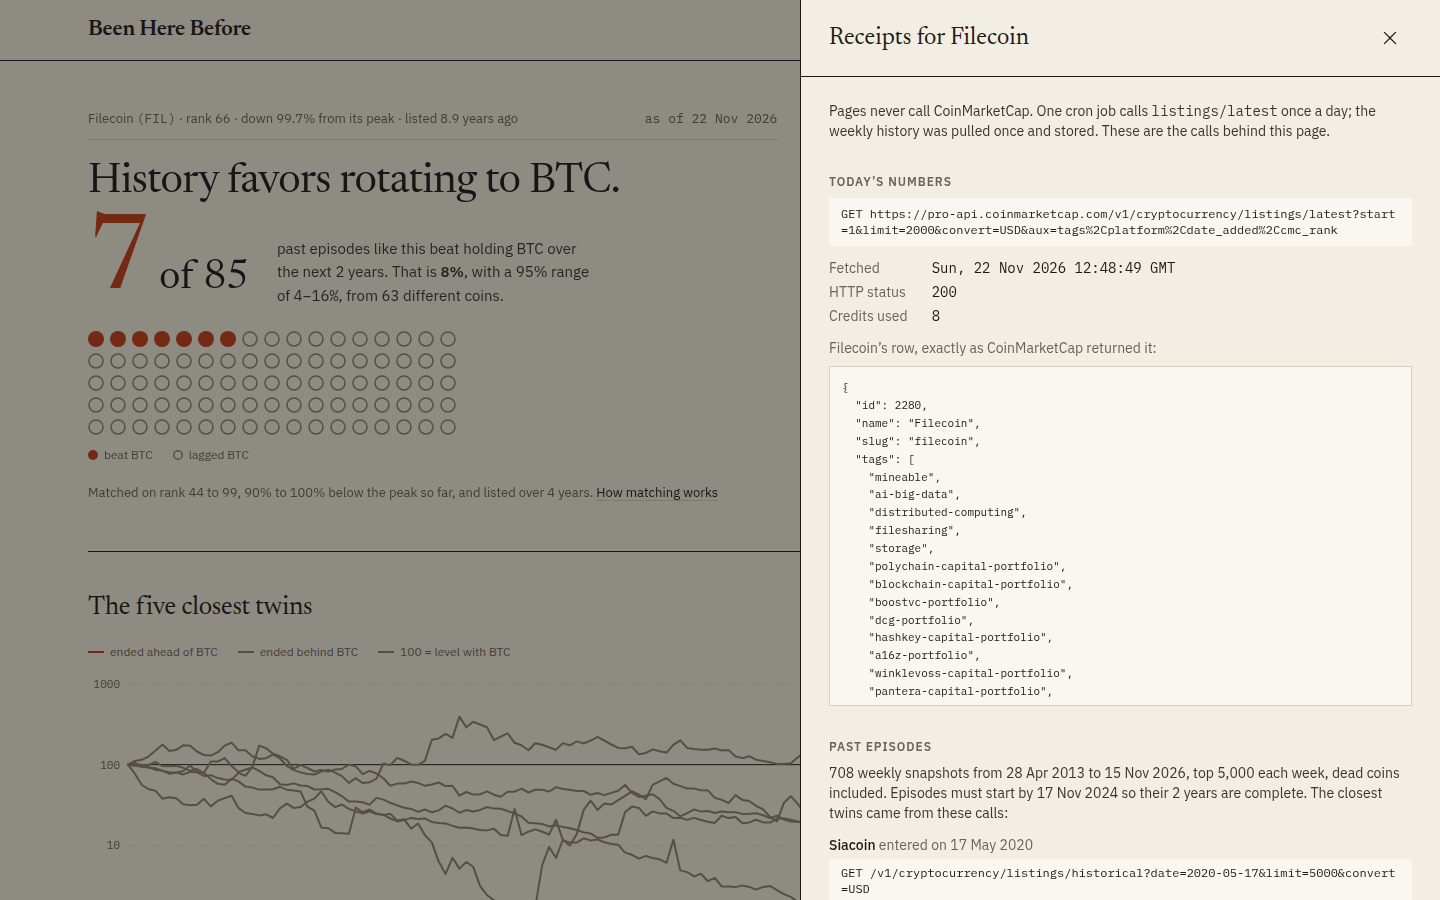
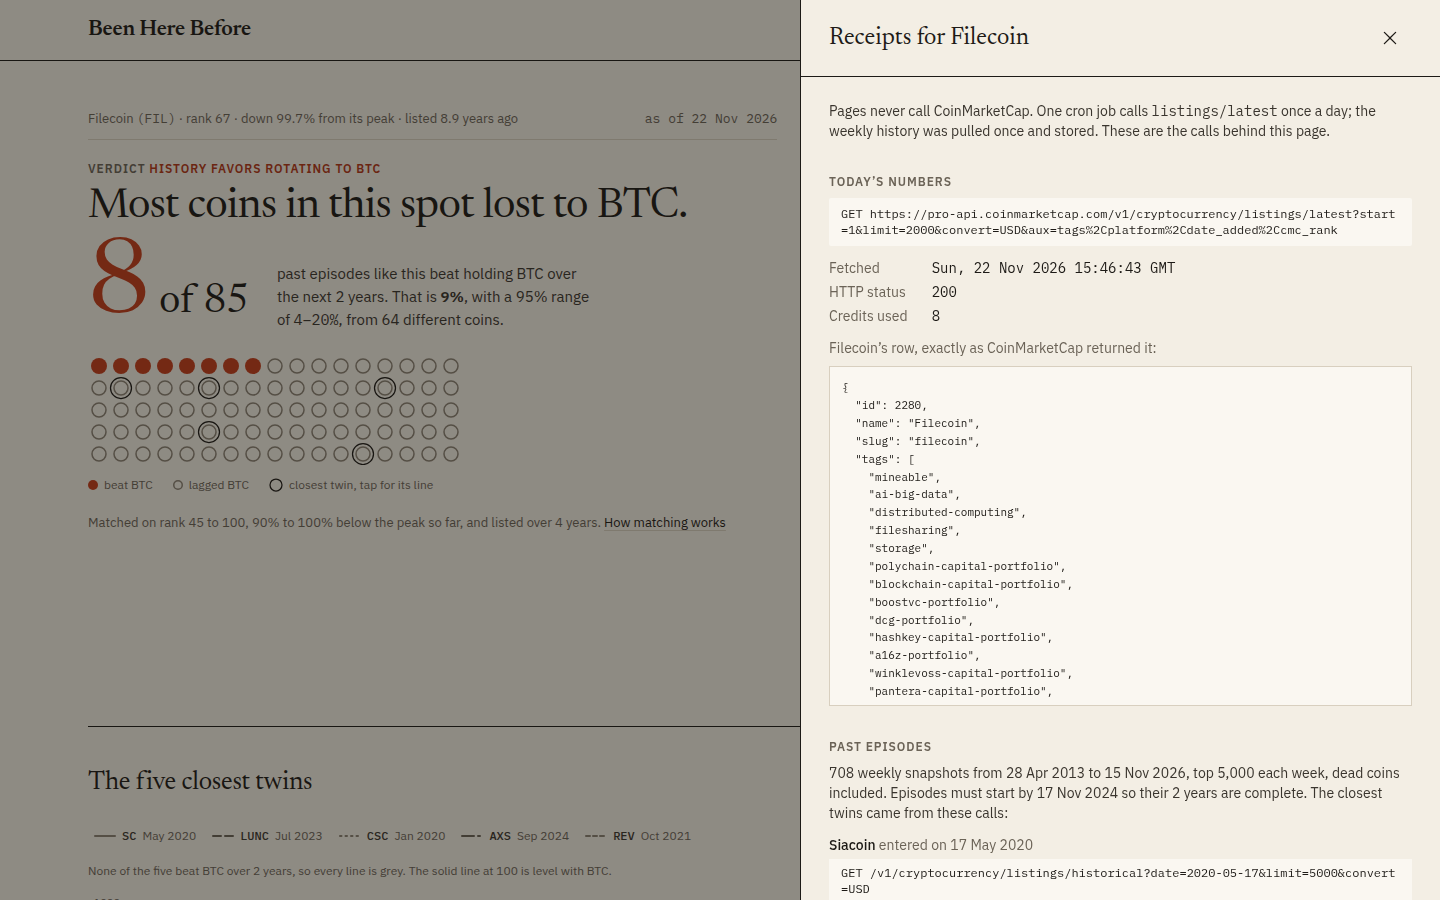
Update README for stage 6: calibration over ranks 2-1000, benchmark panel, new screenshots

diff --git a/README.md b/README.md
@@ -36,17 +36,18 @@ It is a base rate, not a forecast and not financial advice.
 
 ### On every coin page
 
-- **The answer:** a plain heading, the count, the 95% range, and a dot for every past episode. Hover or tap a dot for that coin and its result.
+- **The answer:** a plain heading, the count, the 95% range, and a dot for every past episode. Hover, tap or arrow-key through the dots for each coin and its result.
 - **The five closest twins:** their price against BTC over the 2 years after they stood where this coin stands. Click a ringed dot to pick out its line.
 - **Splits that test the number:** by halving cycle, by market phase in the start week (today's phase is marked), and what the winners had that the others did not (volume, time since peak, and more).
 - **Survivorship, measured:** the rate if only coins alive today were counted, next to the real one.
 - **Every episode** in a table, and a **Receipts** drawer with the CoinMarketCap call behind today's state.
 - **Copy link:** each page unfurls into a card that shows the verdict.
+- **How hard BTC is to beat:** BTC's own page, and coins with too little history (ETH), show the share of all coin-weeks since 2013 that beat BTC over 2 years, by rank band: 25% for ranks 2–10, falling to 10% for ranks 201–1,000.
 
 ### Beyond one coin
 
 - **[Time machine](https://been-here-before.vercel.app/then):** what the app would have said for any coin on any past Sunday, using only history known then, next to what really happened. Includes LUNA five weeks before the collapse, FTT a month before FTX failed, and BitConnect, with the misses counted too.
-- **[Walk-forward test](https://been-here-before.vercel.app/method#calibration):** the same replay for every coin ranked 20–500, every quarter since 2018. See [the honest result](#does-it-work-the-honest-result).
+- **[Walk-forward test](https://been-here-before.vercel.app/method#calibration):** the same replay for every coin ranked 2–1,000, every quarter since 2018. See [the honest result](#does-it-work-the-honest-result).
 - **[Prediction ledger](https://been-here-before.vercel.app/ledger):** every day, the verdicts for the top 100 coins are written to a hash chain that the page re-checks in the browser. They get scored when they turn 2 years old, from 19 Nov 2028.
 - **[MCP server and JSON API](#this-apps-own-api)** so agents can ask the same question, plus [`llms.txt`](https://been-here-before.vercel.app/llms.txt) and an [OpenAPI file](https://been-here-before.vercel.app/openapi.json).
 
@@ -63,7 +64,7 @@ All rules are fixed in advance and shown on the [method page](https://been-here-
 - **One episode per coin per halving cycle**: the first week it entered the bands. Counting every week would fill the sample with near-copies.
 - **No look-ahead.** Features for week W use only data at or before W. A unit test removes every row after W and checks that nothing changes.
 - **Dead coins count.** A coin that left the top 5,000 within the 2 years is counted as a total loss, not dropped.
-- **Ranges allow for bunching in time.** Episodes that start in the same half-year share most of their 2 years, so they are not independent. Every rate gets a Wilson 95% interval at an _effective n_ that accounts for this (cluster-robust, by half-year). Filecoin's 85 episodes count as about 53.
+- **Ranges allow for bunching in time.** Episodes that start in the same half-year share most of their 2 years, so they are not independent. Every rate gets a Wilson 95% interval at an _effective n_ that accounts for this (cluster-robust, by half-year). Filecoin's 85 episodes count as about 53. When the bunching cannot be measured (every episode has the same result, or all sit in one half-year), the app assumes the worst case, that episodes in the same half-year move together fully, so Dogecoin's 0 of 20 gets a range of 0–32%, not 0–16%.
 - **Fixed widening for big coins.** Few coins have ever sat at rank 2 to 10, so when the standard match finds under 20 episodes the app tries three wider bands in a fixed order (rank ×2 / ±15 points, ×3 / ±20, ×4 / ±25) and says on the page which one it used. Still under 20: no verdict.
 
 | Condition (`p` = share that beat BTC over 2 years, range `[lo, hi]`) | Verdict (plain words on the page)                                      |
@@ -77,15 +78,23 @@ The app refuses stablecoins, wrapped tokens and BTC itself (BTC is the yardstick
 
 ## Does it work? The honest result
 
-`scripts/calibrate.ts` replays the method at the start of every quarter from January 2018 to October 2024, for every coin ranked 20–500, using only episodes whose 2 years had already ended by that date, with the same widening steps. Then it checks what really happened.
+`scripts/calibrate.ts` replays the method at the start of every quarter from January 2018 to October 2024, for every coin ranked 2–1,000 (the ranks the coin pages cover), using only episodes whose 2 years had already ended by that date, with the same widening steps. Then it checks what really happened.
 
-- 13,435 coin-dates tested, 13,010 got a prediction.
-- **"Rotate to BTC" was given 10,949 times, and 91.6% of those coins did lag BTC** over the next 2 years.
-- But most coins lag BTC anyway: across all predictions only 9.8% beat it. So "rotate" is only a little better than that base rate. Where the verdict does sort coins: those it called "no clear edge" beat BTC about twice as often as those it called "rotate" (17.3% against 8.4%).
-- Brier score 0.0963 against 0.0984 for a baseline that always predicts the overall rate: a gain of 2.2%, with a 95% range of −0.2% to 6.9% across test dates. **The range includes zero**, and most of the gain comes from 2018.
-- "Hold" never fired, so in practice the verdict has two states. Predictions run high in the 10–50% buckets (predicted 15% came true 9%), most likely because the 2017 boom made earlier cycles kinder to altcoins than 2018–2024.
+- 27,939 coin-dates tested, 26,870 got a prediction (the rest had too little history).
+- **"Rotate to BTC" was given 23,280 times, and 92% of those coins did lag BTC** over the next 2 years.
+- But most coins lag BTC anyway: across all predictions only 8.7% beat it. So "rotate" is only a little better than that base rate. Where the verdict does sort coins: those it called "no clear edge" beat BTC about twice as often as those it called "rotate" (14.7% against 7.8%).
+- Brier score 0.0864 against 0.0879 for a baseline that always predicts the overall rate: a gain of 1.7%, with a 95% range of −0.7% to 6.2% across test dates. **The range includes zero**, and most of the gain comes from 2018 and 2019.
+- By rank group, each against its own base rate:
 
-The method page shows the reliability chart and the split by year, and says all of this in plain words. The thresholds were not tuned after seeing these results.
+  | Ranks     | Predicted | Gain over base rate |
+  | --------- | --------- | ------------------- |
+  | 2–19      | 337       | +3.8%               |
+  | 20–500    | 13,010    | +2.2%               |
+  | 501–1,000 | 13,523    | **−4.2%** (worse)   |
+
+- "Hold" never fired, so in practice the verdict has two states. Predictions run high in the 10–50% buckets (predicted 15% came true 8%), most likely because the 2017 boom made earlier cycles kinder to altcoins than 2018–2024.
+
+The method page shows the reliability chart, the split by year and by rank group, and says all of this in plain words. The thresholds were not tuned after seeing these results.
 
 ## CoinMarketCap endpoints used
 
@@ -184,7 +193,7 @@ Every coin page shows the same thing live: open **Receipts** to see the stored r
 
 ## This app's own API
 
-Every route is a GET that needs no key and reads only from this app's database. None of them call CoinMarketCap. Verdicts are cached for a day and refreshed after the daily cron.
+Every route needs no key, sends CORS headers so a browser on any site can call it, and reads only from this app's database. None of them call CoinMarketCap. Answers carry CDN cache headers (an hour, served stale for a day while refreshing; finished replays for a day) and the data refreshes after the daily cron.
 
 | Route                                           | Returns                                                                                                              |
 | ----------------------------------------------- | -------------------------------------------------------------------------------------------------------------------- |
